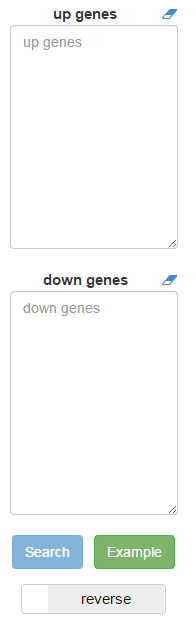
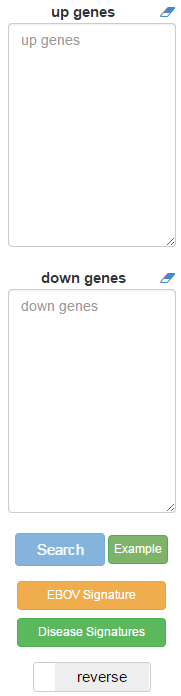
change help page

Changed region(s): [[0.0276, 0.0, 0.9945, 1.0], [0.0276, 0.4249, 0.0552, 0.8195], [0.9669, 0.4249, 0.9945, 0.7284]]

diff --git a/public/help/index.html b/public/help/index.html
@@ -18,7 +18,9 @@
             <ul id='sideBarSub'>
                 <li><a href='#search'>Search</a></li>
                 <li><a href='#example'>Example</a></li>
+                <li><a href='#EBOV'>EBOV</a></li>
                 <li><a href='#aggravate'>Aggravate/Reverse</a></li>
+                <li><a href='#diseases'>Diseases</a></li>
                 <li><a href='#table'>Table</a></li>
                 <li><a href='#share'>Share</a></li>
             </ul>
@@ -45,24 +47,31 @@
             <h3>Tutorial</h3>
             <div class="col-left">
                 <h5 id="search">Search</h5>
-                <p>The entry point of L1000CDS² is to paste up/down gene lists into the up/down gene text boxes. The search button will only be enabled when both up/down genes are filled in. Click the search button and the information of the top 50 signatures will be displayed in a table (link) on the right side.</p>
+                <p>The entry point of L1000CDS² is to paste up/down gene lists into the up/down gene text boxes. The search button will only be enabled when both up/down genes are filled in. Click the search button and the information of the top 50 signatures will be displayed in a <a href="#table">table</a> on the right side.</p>
                 <h5 id="example">Example</h5>
                 <p>Clicking the Example button will fill in example up/down gene lists in the text boxes for a demo search.</p>
+                <h5 id="EBOV">EBOV</h5>
+                <p>Clicking the EBOV Signature button will fill in the up/down gene lists of an EBOV signature in the text boxes for a demo search.</p>
                 <h5 id="aggravate">Aggravate/Reverse</h5>
                 <p>In aggravate mode, input up genes are intersected with up genes of the gene expression profiles in the L1000CDS² database and input down genes are intersected with down genes of the gene expression profiles in the database. In reverse mode, input up genes are intersected with down genes of the gene expression profiles in the L1000CDS² database and input down genes are intersected with up genes of the gene expression profiles in the database. <strong>The default mode is reverse.</strong></p>
 
             </div>
             <div class="col-right">
-                <img src='images/search.png'/>
-                <p class='caption'>Fig. 1 Screenshot that shows the input text boxes, the search button, the example button and the aggravate/reverse slider.</p>
+                <img id="fig1" src='images/search.png'/>
+                <p class='caption'>Fig. 1 Screenshot that shows the input text boxes, the search button, the example button, the EBOV signature button, the diesease signatures button  and the mimic/reverse slider.</p>
             </div>
 
+            <h5 id="diseases">Diseases</h5>
+            <p>Clicking on the Diseases Signature button will open a table of disease names and their tissue types (Fig 2). The table is searchable by disease name or tissue type and can be sorted by either column. Each row represents a differential expression signature of a disease and consists of 300 up-regulated genes and 300 down-regulated genes. These signatures were calculated from gene expression data deposited in GEO.  Clicking on a row will select that disease. Clicking on the search button will fill in the up/down gene lists of the selected disease in the up/down gene text boxes and perform a search at the same time. </p>
+            <img id="fig2" class="diseases-figure" src="images/diseases.png"/>
+            <p class="caption">Fig 2 Screenshot that shows the disease table</p>
+
             <h5 id="table">Table</h5>
-            <p>The search results are rendered as a paginated table with 12 entries on each page (Fig 2). Each entry provides 5 pieces of information about the signature: score, perturbation, cell-line, dose and time point. The score is the overlap between the input DE genes and the signature DE genes divided by the effective input. The effective input is the length of intersection between input genes and the L1000 genome since some input genes may not be measured in the L1000 platform. The consensus signatures are sorted by score in descending order. Perturbation column shows the names of the chemical perturbations. Clicking on a name will direct user to a web page provided by the <a target="_blank" href="http://life.ccs.miami.edu/life/">LIFE app</a> that catalogs the detailed information of the chemical compound. There is also a signature column in the table. Clicking a download button in that column will download all the information of a signature as a JSON file. </p>
-            <img src='images/table.png'/>
-            <p id='fig1' class='caption'>Fig. 2 Screenshot that shows the paginated results table and the share button.</p>
+            <p>The search results are rendered as a paginated table with 12 entries on each page (Fig 3). Each entry provides 5 pieces of information about the signature: score, perturbation, cell-line, dose and time point. The score is the overlap between the input DE genes and the signature DE genes divided by the effective input. The effective input is the length of intersection between input genes and the L1000 genome since some input genes may not be measured in the L1000 platform. The consensus signatures are sorted by score in descending order. Perturbation column shows the names of the chemical perturbations. Clicking on a name will direct user to a web page provided by the <a target="_blank" href="http://life.ccs.miami.edu/life/">LIFE app</a> that catalogs the detailed information of the chemical compound. There is also a signature column in the table. Clicking a download button in that column will download all the information of a signature as a JSON file. </p>
+            <img id="fig3" src='images/table.png'/>
+            <p class='caption'>Fig. 3 Screenshot that shows the paginated results table and the share button.</p>
             <h5 id="share">Share</h5>
-            <p>After performing a search, a share button (Fig 2) will appear on the top right of the result table. Clicking on the button will show a unique URL for sharing the search results.</p>
+            <p>After performing a search, a share button (Fig 3) will appear on the top right of the result table. Clicking on the button will show a unique URL for sharing the search results.</p>
             
         </section>
         

diff --git a/public/index.html b/public/index.html
@@ -50,7 +50,7 @@
         <div class="input-margin">
           <button ng-class="{'disabled':!upGenes||!dnGenes}" ng-click="search()" class="btn btn-primary custom-button search-button">Search</button><a ng-click="loadDefaultExample()" class="btn btn-success custom-button example-button">Example</a>
         </div>
-        <div class="input-margin"><a ng-click="loadEboveExample()" class="btn btn-warning custom-button long-button">Ebola Signature</a></div>
+        <div class="input-margin"><a ng-click="loadEboveExample()" class="btn btn-warning custom-button long-button">EBOV Signature</a></div>
         <div class="narrow-margin"><a ng-click="showExamples()" class="btn btn-success custom-button long-button">Disease Signatures                </a></div>
         <div style="padding:0" class="input-margin">
           <toggle-switch model="aggravate" on-label="mimic" off-label="reverse" class="switch-default">
@@ -82,7 +82,7 @@
             <tr>
               <td colspan="6">
                 <div class="table-label"> Chemical Perturbations</div>                  
-                <div st-pagination="" st-items-by-page="12" st-displayed-pages="" class="custom-pagination"></div>
+                <div st-pagination="" st-items-by-page="14" st-displayed-pages="" class="custom-pagination"></div>
               </td>
             </tr>
           </tfoot>

diff --git a/public/help/css/main.css b/public/help/css/main.css
@@ -207,3 +207,9 @@ pre{
     font-size:1.1em;
     color:rgb(66, 184, 221);
 }
+
+.diseases-figure{
+border: gainsboro;
+border-style: solid;
+border-width: thin;
+}
